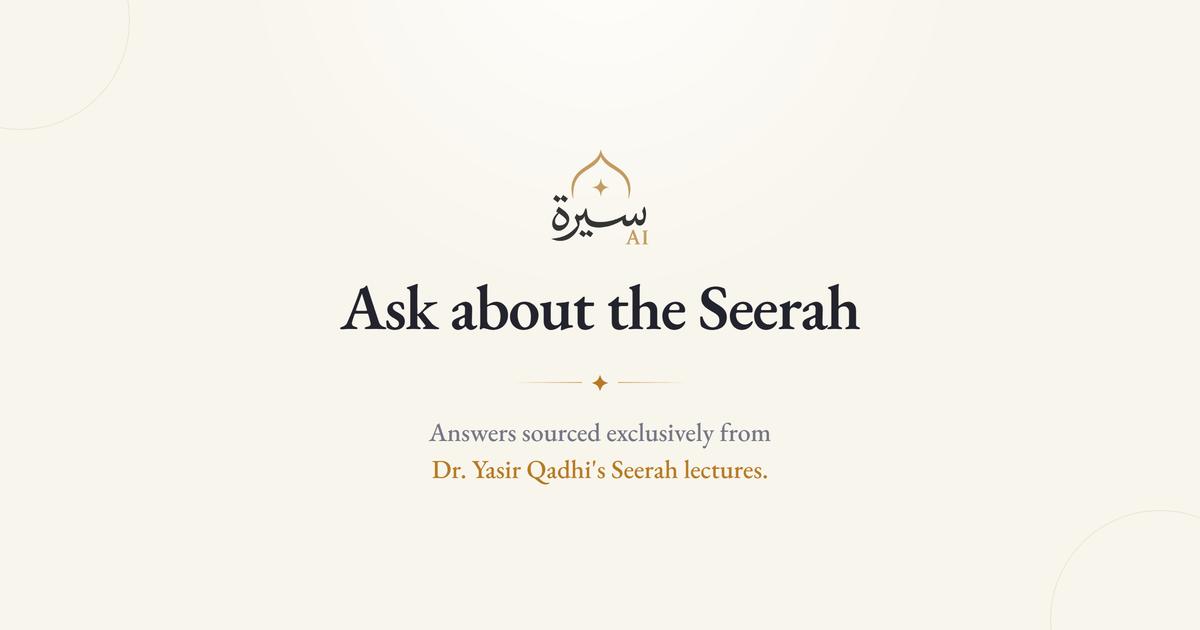
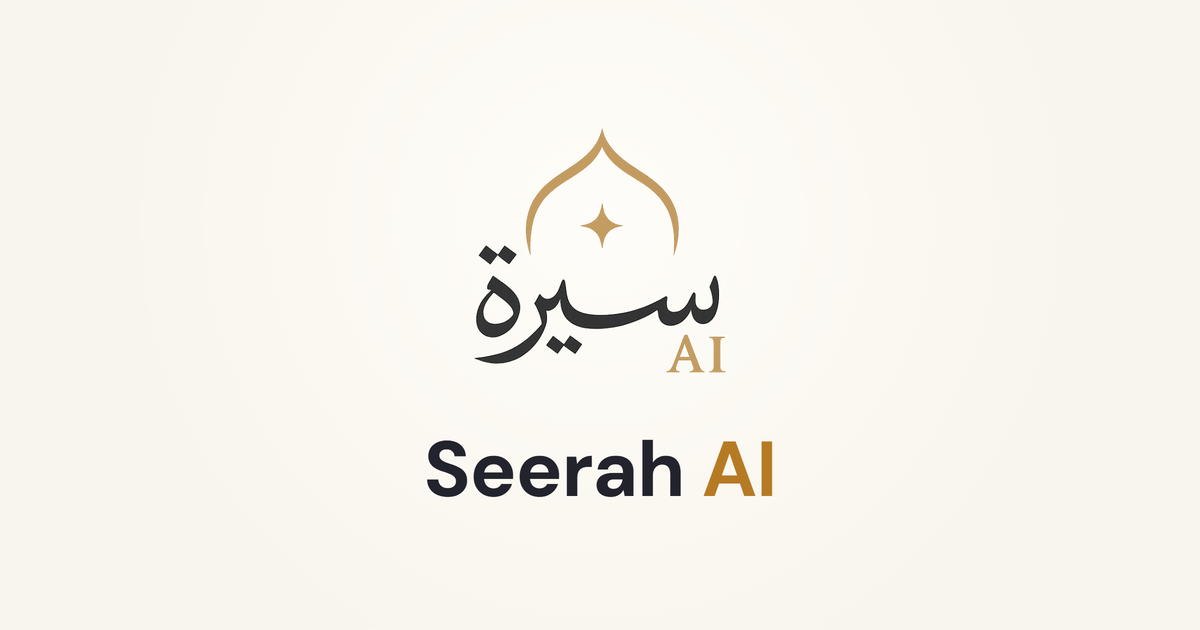
Simplify OG preview image and trim description text
WhatsApp renders the preview as a small square-ish thumbnail, not a
full banner - the previous design's fine serif text and thin divider
lines were unreadable at that size. Replaced with a large logo mark
and bold wordmark that stays legible even shrunk down. Also trimmed
the description to the exact wording requested.

diff --git a/frontend/index.html b/frontend/index.html
@@ -14,7 +14,7 @@
          read to build a rich preview card instead of showing a bare link. -->
     <meta property="og:type" content="website" />
     <meta property="og:title" content="Seerah AI" />
-    <meta property="og:description" content="Ask questions about the life of the Prophet Muhammad ﷺ and get answers grounded in Dr. Yasir Qadhi's 104-lecture Seerah series, with citations to the exact lecture and timestamp." />
+    <meta property="og:description" content="Ask questions about the life of the Prophet Muhammad and get answers grounded in Dr. Yasir Qadhi's 104-lecture Seerah series, with citations to the exact lecture." />
     <meta property="og:url" content="https://seerah-ai.ibrahimumair900.workers.dev" />
     <meta property="og:image" content="https://seerah-ai.ibrahimumair900.workers.dev/og-preview.png" />
     <meta property="og:image:width" content="1200" />
@@ -23,7 +23,7 @@
     <!-- Twitter/X reads its own tag set separately from Open Graph. -->
     <meta name="twitter:card" content="summary_large_image" />
     <meta name="twitter:title" content="Seerah AI" />
-    <meta name="twitter:description" content="Ask questions about the life of the Prophet Muhammad ﷺ, grounded in Dr. Yasir Qadhi's Seerah lectures with exact citations." />
+    <meta name="twitter:description" content="Ask questions about the life of the Prophet Muhammad and get answers grounded in Dr. Yasir Qadhi's 104-lecture Seerah series, with citations to the exact lecture." />
     <meta name="twitter:image" content="https://seerah-ai.ibrahimumair900.workers.dev/og-preview.png" />
   </head>
   <body>
